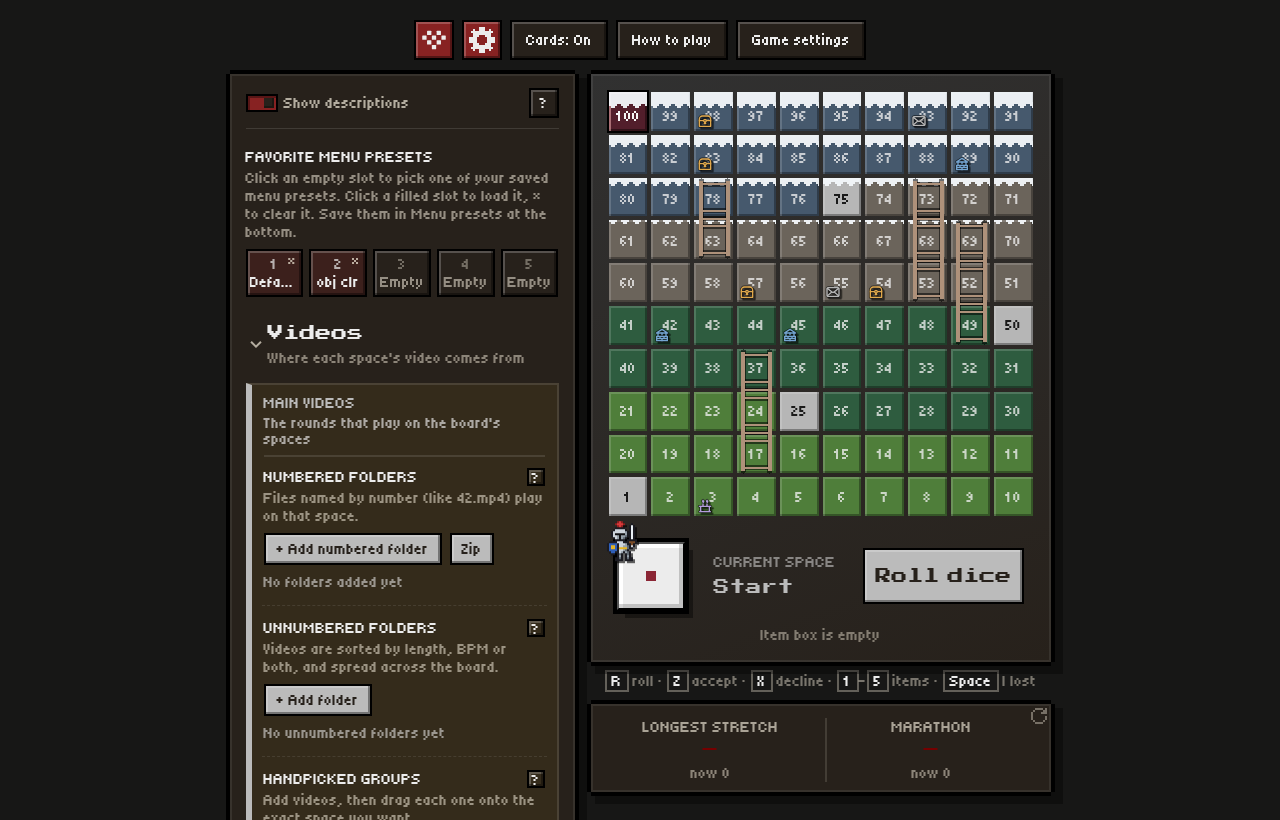
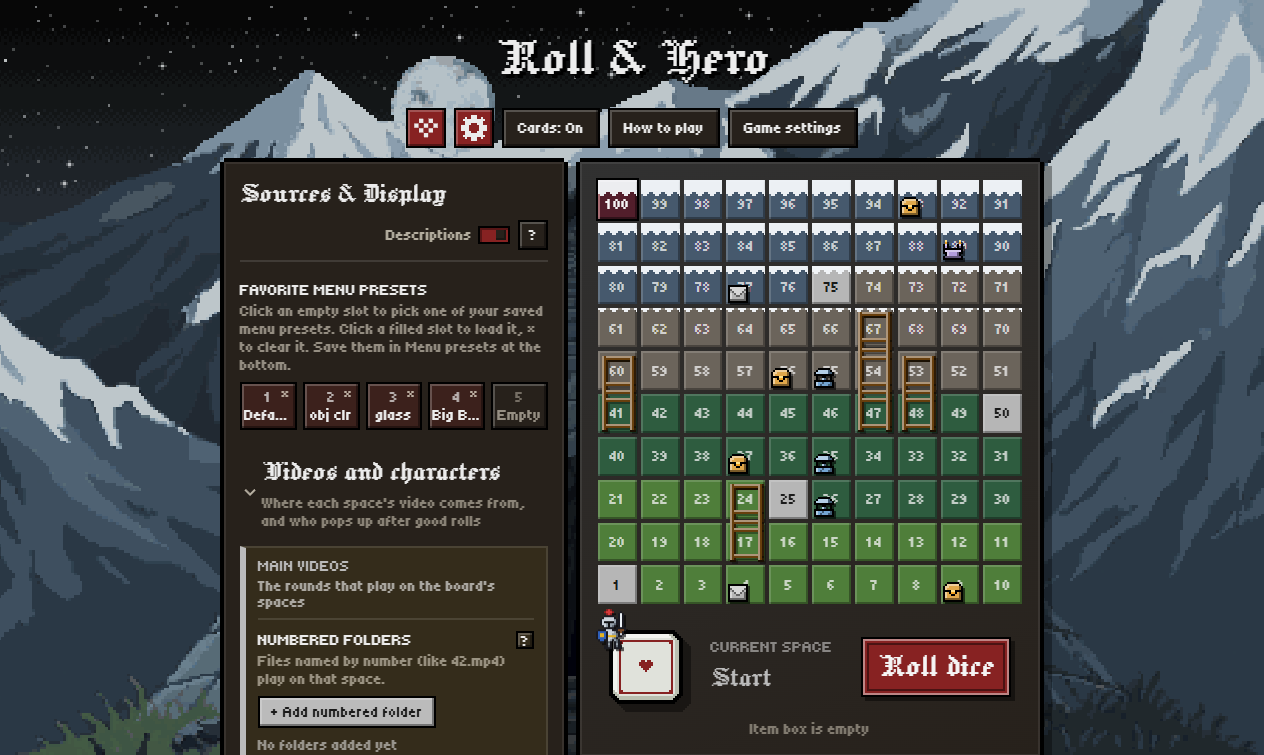
README: new screenshot

diff --git a/README.md b/README.md
@@ -4,7 +4,7 @@ A dice-board video game. Roll the die, move your knight across 100 spaces, and e
 
 **[⬇ Download the latest release (Windows and Linux)](https://github.com/xurby/roll-and-hero/releases/latest)**
 
-![Roll & Hero in its 8-bit style](docs/screenshot.png)
+![Roll & Hero in its 8-bit style, with the mountain landscape behind the board](docs/screenshot.png)
 
 ## Features
 
